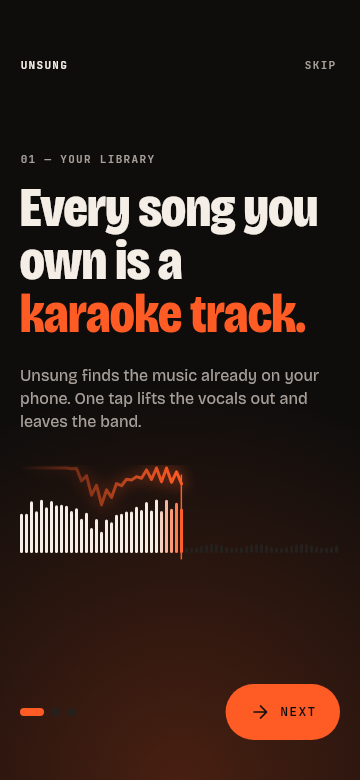
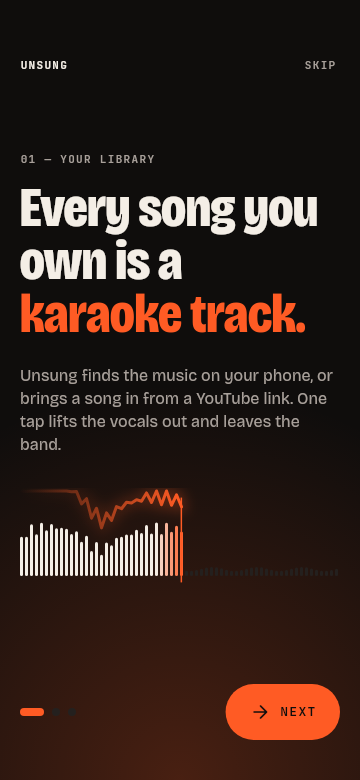
copy: onboarding mentions YouTube links
Claude-Session: https://claude.ai/code/session_01EdRWFHNE7onohuhQ7Qawu4

Changed region(s): [[0.0306, 0.4615, 0.9167, 0.7385]]

diff --git a/lib/features/onboarding/onboarding_screen.dart b/lib/features/onboarding/onboarding_screen.dart
@@ -26,7 +26,7 @@ const _beats = [
     '01 — Your library',
     'Every song you own is a',
     'karaoke track.',
-    'Unsung finds the music already on your phone. One tap lifts the vocals out and leaves the band.',
+    'Unsung finds the music on your phone, or brings a song in from a YouTube link. One tap lifts the vocals out and leaves the band.',
     UnsingBeatVisual(),
   ),
   _Beat(
